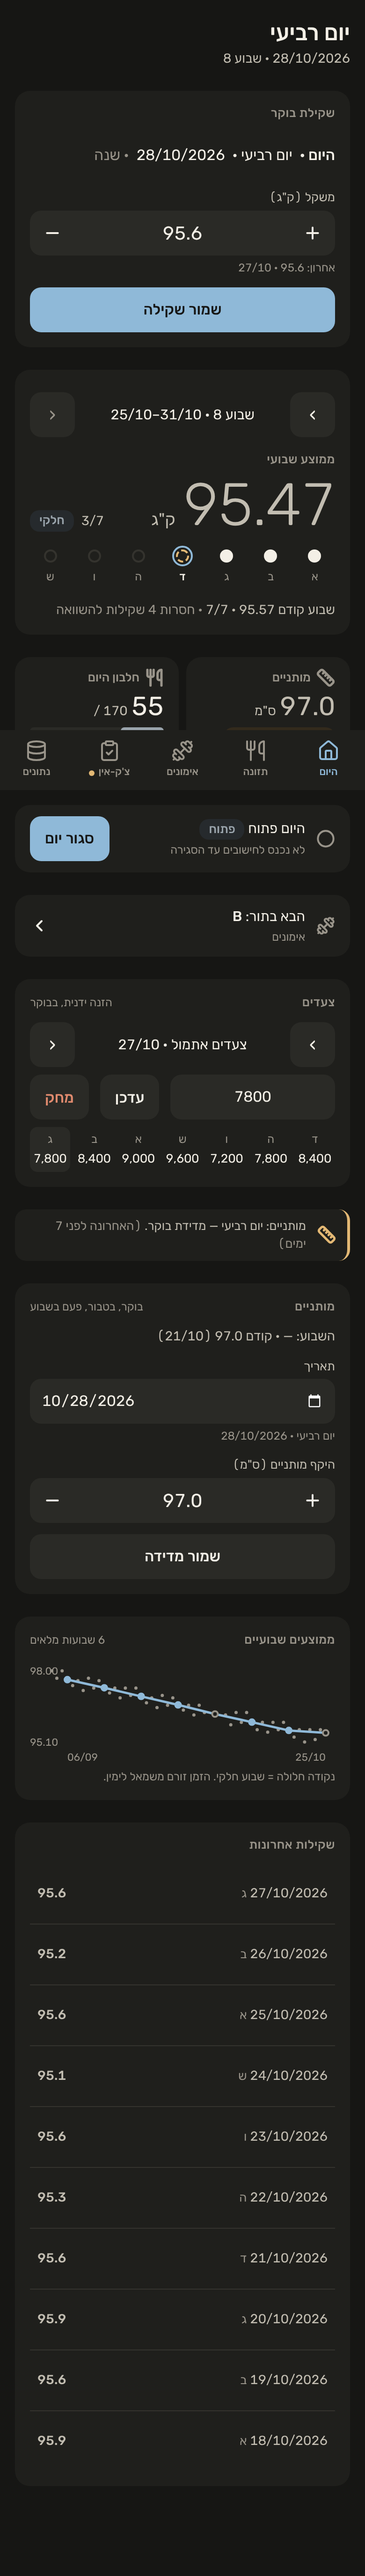
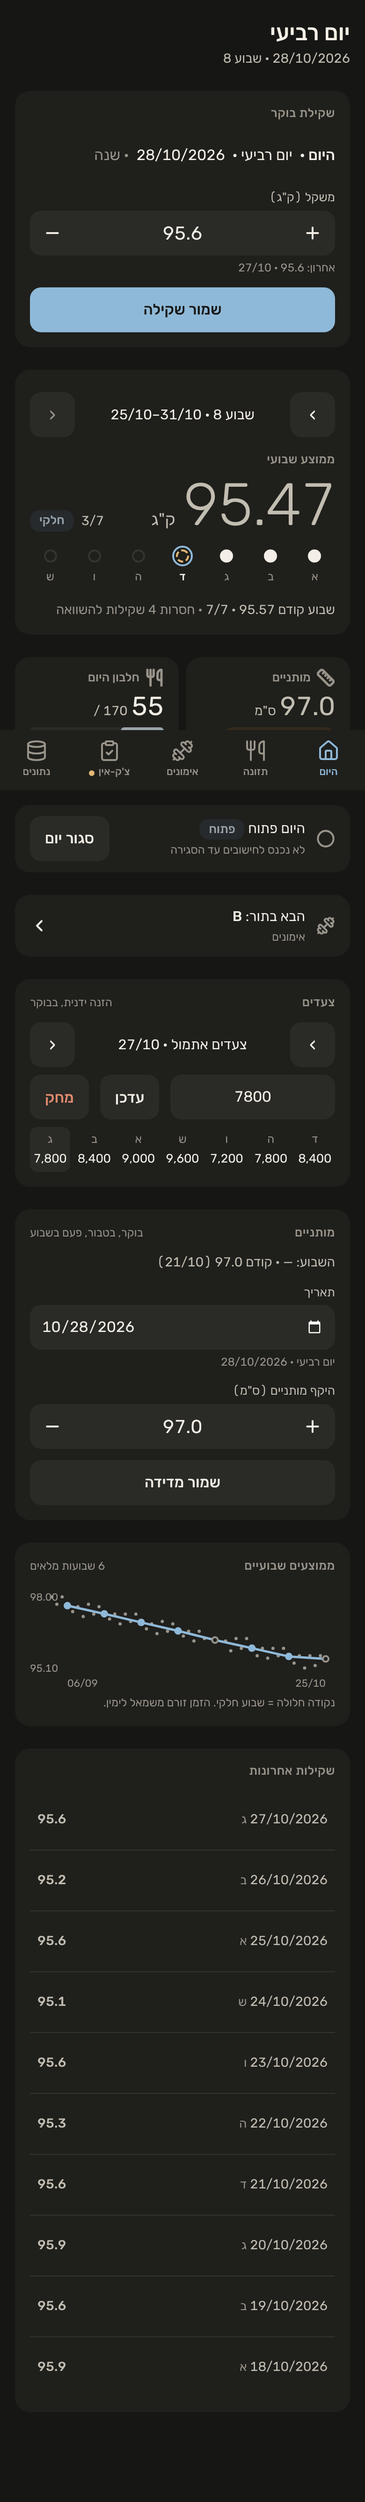
תיקונים לפני מיזוג: "סגור יום" ככפתור משני + Toast "היום נסגר · בטל" (אותו toggleClosed), "אין שקילות" ב-0/7, הסרת תזכורת הרביעי הכפולה; בדיקת שוויון סגירה→בטל (לא זהה: נשארת רשומת יום ריקה — לא תוקן)
Claude-Session: https://claude.ai/code/session_011KUJsuyeWe3rmPVR9pcuTj

diff --git a/src/screens/WeightScreen.tsx b/src/screens/WeightScreen.tsx
@@ -31,7 +31,6 @@ import { targetFor } from '../lib/nutrition/targets';
 import { kcalText } from '../lib/nutrition/display';
 import { nextType } from '../lib/workouts';
 import {
-  daysSinceWaist,
   lastWaist,
   lastWeight,
   removeWaist,
@@ -44,14 +43,13 @@ import {
   waistInWeek,
   weekChange,
   weeklyAverages,
-  waistReminderDue,
   WEEK_LENGTH,
 } from '../lib/weights';
 import { MAX_DAY_STEPS, MAX_WAIST, MAX_WEIGHT, MIN_WAIST, MIN_WEIGHT } from '../lib/schema';
 import { programStartWeek } from '../lib/db';
 import { DASH } from '../lib/format';
 import { confidenceOf } from '../components/confidence';
-import { Button, DayDots, HeroValue, Icon, ListRow, MetricTile, Notice, Num, ScreenHeader, SectionHeader, StatusChip, Surface } from '../ui';
+import { Button, DayDots, HeroValue, Icon, ListRow, MetricTile, Num, ScreenHeader, SectionHeader, StatusChip, Surface, Toast } from '../ui';
 import { ChevronLeft, Circle, CircleCheck, Dumbbell, Pencil, Ruler, Utensils } from '../ui/icons';
 import { waistStatus, weekDots } from './todayView';
 
@@ -61,6 +59,8 @@ const CHIP_TONE = { high: 'done', mid: 'partial', low: 'missing' } as const;
 const MIN_FULL_WEEKS_FOR_CHART = 3;
 /** כמה זמן הכפתור אומר "נשמר" — אותו דפוס כמו "הועתק" ב-CopyBlock. */
 const SAVED_MS = 2500;
+/** כמה זמן טוסט "היום נסגר · בטל" נשאר — כמו טוסט הביטול במסך התזונה. */
+const UNDO_MS = 6000;
 
 type Props = ScreenProps & {
   /** מעבר לטאב אחר (אימונים, תזונה). אותו `setTab` של App. */
@@ -91,6 +91,9 @@ export default function WeightScreen({ store, today, onNavigate }: Props) {
   const [cardioAddedFor, setCardioAddedFor] = useState<string | null>(null);
   const [savedFlash, setSavedFlash] = useState(false);
   const savedTimer = useRef<number | undefined>(undefined);
+  /** טוסט אחרי "סגור יום": "היום נסגר · בטל" ל-6 שניות. */
+  const [closedToast, setClosedToast] = useState(false);
+  const toastTimer = useRef<number | undefined>(undefined);
   /** שורת שקילה פתוחה ב"שקילות אחרונות" — רק בה מוצג כפתור המחיקה. */
   const [openRecent, setOpenRecent] = useState<string | null>(null);
   /** טופס המותניים, יעד הנגיעה באריח. */
@@ -99,6 +102,7 @@ export default function WeightScreen({ store, today, onNavigate }: Props) {
   useEffect(() => {
     return () => {
       if (savedTimer.current !== undefined) window.clearTimeout(savedTimer.current);
+      if (toastTimer.current !== undefined) window.clearTimeout(toastTimer.current);
     };
   }, []);
 
@@ -149,8 +153,6 @@ export default function WeightScreen({ store, today, onNavigate }: Props) {
   const waistLast = useMemo(() => lastWaist(db.waist), [db.waist]);
   const waistExisting = db.waist.find((e) => e.d === waistDate) ?? null;
   const waistValue = waistDraft ?? waistExisting?.cm ?? waistLast?.cm ?? null;
-  const sinceWaist = useMemo(() => daysSinceWaist(db.waist, today), [db.waist, today]);
-  const waistDue = useMemo(() => waistReminderDue(db.waist, today), [db.waist, today]);
   const waistThisWeek = useMemo(() => waistInWeek(db.waist, week), [db.waist, week]);
   const waistPrev = useMemo(() => waistBeforeWeek(db.waist, week), [db.waist, week]);
   /** אריח המותניים: תמיד על השבוע של היום, לא על השבוע המנווט. */
@@ -168,6 +170,10 @@ export default function WeightScreen({ store, today, onNavigate }: Props) {
   const dayClosed = todayMeta?.closed === true;
   const toggleClosed = () => {
     void store.update('days', setDayClosed(db.days, today, !dayClosed, new Date().toISOString()));
+    // סגירה מציגה טוסט עם "בטל"; פתיחה (מהכפתור או מ"בטל") מסירה אותו.
+    if (toastTimer.current !== undefined) window.clearTimeout(toastTimer.current);
+    setClosedToast(!dayClosed);
+    if (!dayClosed) toastTimer.current = window.setTimeout(() => setClosedToast(false), UNDO_MS);
   };
 
   const upNext = useMemo(() => nextType(db.workouts), [db.workouts]);
@@ -372,7 +378,7 @@ export default function WeightScreen({ store, today, onNavigate }: Props) {
                   </Num>
                   {/* הצבע מקודד מלאות בלבד, לא כיוון. */}
                   <StatusChip tone={CHIP_TONE[confidenceOf(current.count)]}>
-                    {current.complete ? 'שבוע מלא' : 'חלקי'}
+                    {current.complete ? 'שבוע מלא' : current.count === 0 ? 'אין שקילות' : 'חלקי'}
                   </StatusChip>
                 </>
               }
@@ -494,13 +500,18 @@ export default function WeightScreen({ store, today, onNavigate }: Props) {
                 פתח מחדש
               </Button>
             ) : (
-              <Button variant="accent" onClick={toggleClosed}>
-                סגור יום
-              </Button>
+              <Button onClick={toggleClosed}>סגור יום</Button>
             )
           }
         />
       </Surface>
+
+      {/* "בטל" = אותה פונקציה של "פתח מחדש". צף מעל הניווט, 6 שניות. */}
+      {closedToast && dayClosed && (
+        <Toast actionLabel="בטל" onAction={toggleClosed}>
+          היום נסגר
+        </Toast>
+      )}
 
       {/* 6. אימון: הבא בסבב, כפי שמסך האימונים כבר מחשב. נגיעה מעבירה לשם. */}
       <Surface as="div" className="surface--row" aria-label="אימון">
@@ -609,22 +620,6 @@ export default function WeightScreen({ store, today, onNavigate }: Props) {
           </div>
         </div>
       </section>
-
-      {/* שלב 4: תזכורת מותניים ביום רביעי בבוקר, נעלמת כשיש מדידה לאותו רביעי.
-          צמודה לטופס שהיא מפנה אליו; האריח למעלה אומר את אותו דבר בקצרה. */}
-      {waistDue && (
-        <Notice icon={Ruler}>
-          מותניים: יום רביעי — מדידת בוקר.
-          {sinceWaist !== null && (
-            <>
-              {' '}
-              <span className="muted">
-                (האחרונה לפני <span className="num">{sinceWaist}</span> ימים)
-              </span>
-            </>
-          )}
-        </Notice>
-      )}
 
       <section className="section" ref={waistForm} tabIndex={-1} aria-label="מותניים — טופס">
         <div className="section__head">

diff --git a/docs/ui-stage-2/REPORT.md b/docs/ui-stage-2/REPORT.md
@@ -90,3 +90,10 @@
 ## 7. איך נמדד
 
 Playwright 1.63 (Chromium המותקן), 390×844, DPR 2, `isMobile`, `he-IL`, `Asia/Jerusalem`, `colorScheme: dark`, service worker חסום, `page.clock.setFixedTime`. זריעה ישירה ל-IndexedDB (`keyval-store`/`keyval`, 13 מפתחות + סמן המיגרציה): שקילות יומיות מ-06/09/2026 עם ירידה איטית ושבוע חלקי אחד, מותניים כל רביעי, אימונים A/B/C, 14 ימים סגורים עם צעדים, 2 רישומי אכילה היום (55 ג' חלבון), יעד 170. "לפני" = build של `f75afde`, "אחרי" = build של הענף. הכלים ב-`docs/ui-stage-2/tools/` (`seed.mjs`, `lib.mjs`, `shoot.mjs`, `equivalence.mjs`); לא חלק מה-build.
+
+## 8. תיקונים לפני מיזוג (31/10/2026, אותו ענף)
+
+1. **"סגור יום"** — כפתור משני (המבטא נשאר רק ל"שמור שקילה"). אחרי סגירה: `Toast` מהספרייה, "היום נסגר · בטל", 6 שניות. "בטל" קורא ל-`toggleClosed` — אותה פונקציה של "פתח מחדש", בלי לוגיקה חדשה. מסך התזונה לא השתנה. צילומים: `after/14-day-closed-toast.png`, `after/14-toast--crop.png`.
+2. **שוויון "סגור יום → בטל" מול "לא נסגר"** (`tools/undo-equivalence.mjs`, `undo-equivalence.json`): **לא זהה.** אחרי סגירה וביטול נשארת ב-`days` רשומה `{ "d": "2026-10-28", "closed": false }` שלא קיימת כשהיום לא נסגר בכלל (14 → 15 רשומות). לא חותמת זמן — `setDayClosed(…, false)` משמיט את `closedAt`, אבל משאיר את הרשומה הריקה. זה ב-`src/lib/nutrition/days.ts`, מחוץ לגבולות השלב; **לא שונה דבר** — ממתין להחלטה.
+3. **0/7** — הצ'יפ מציג "אין שקילות" (טון "חסר") במקום "חלקי". צילום: `after/05-waist-sun-upcoming.png`.
+4. **תזכורת הרביעי** — הוסרה מהמסך. היא הציגה רק טקסט ("מותניים: יום רביעי — מדידת בוקר (האחרונה לפני N ימים)") בלי פעולה; האריח אומר "חסר — למדוד היום" + תאריך המדידה האחרונה, ונגיעה בו מובילה לטופס. `waistReminderDue`/`daysSinceWaist` ב-lib לא נגעו (הסיכום השבועי עדיין משתמש בכלל).
